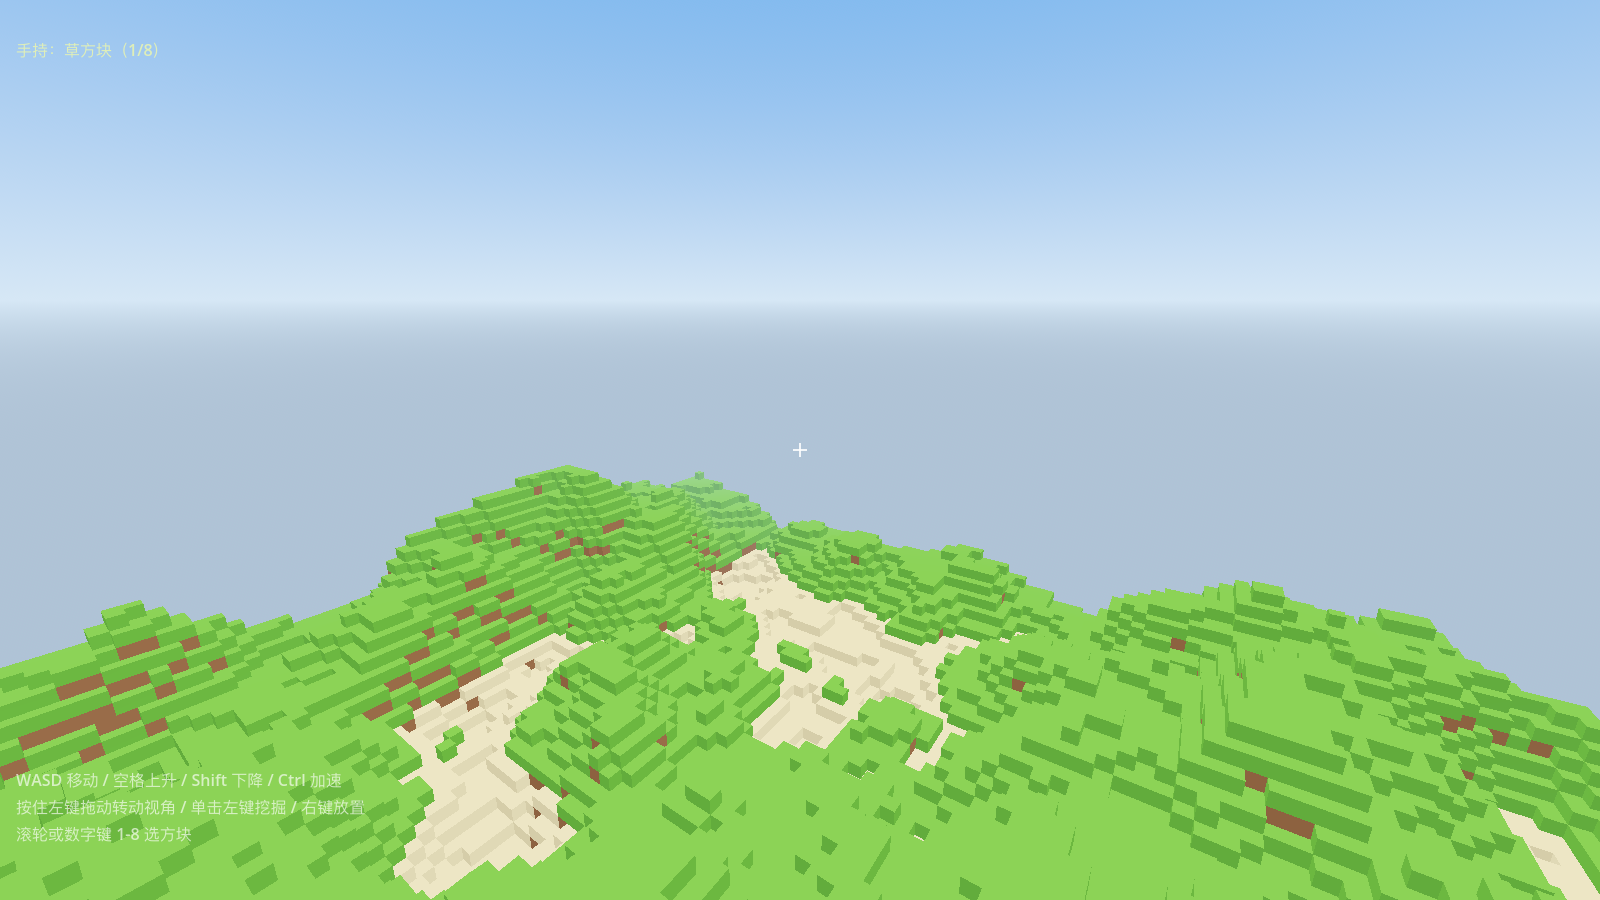
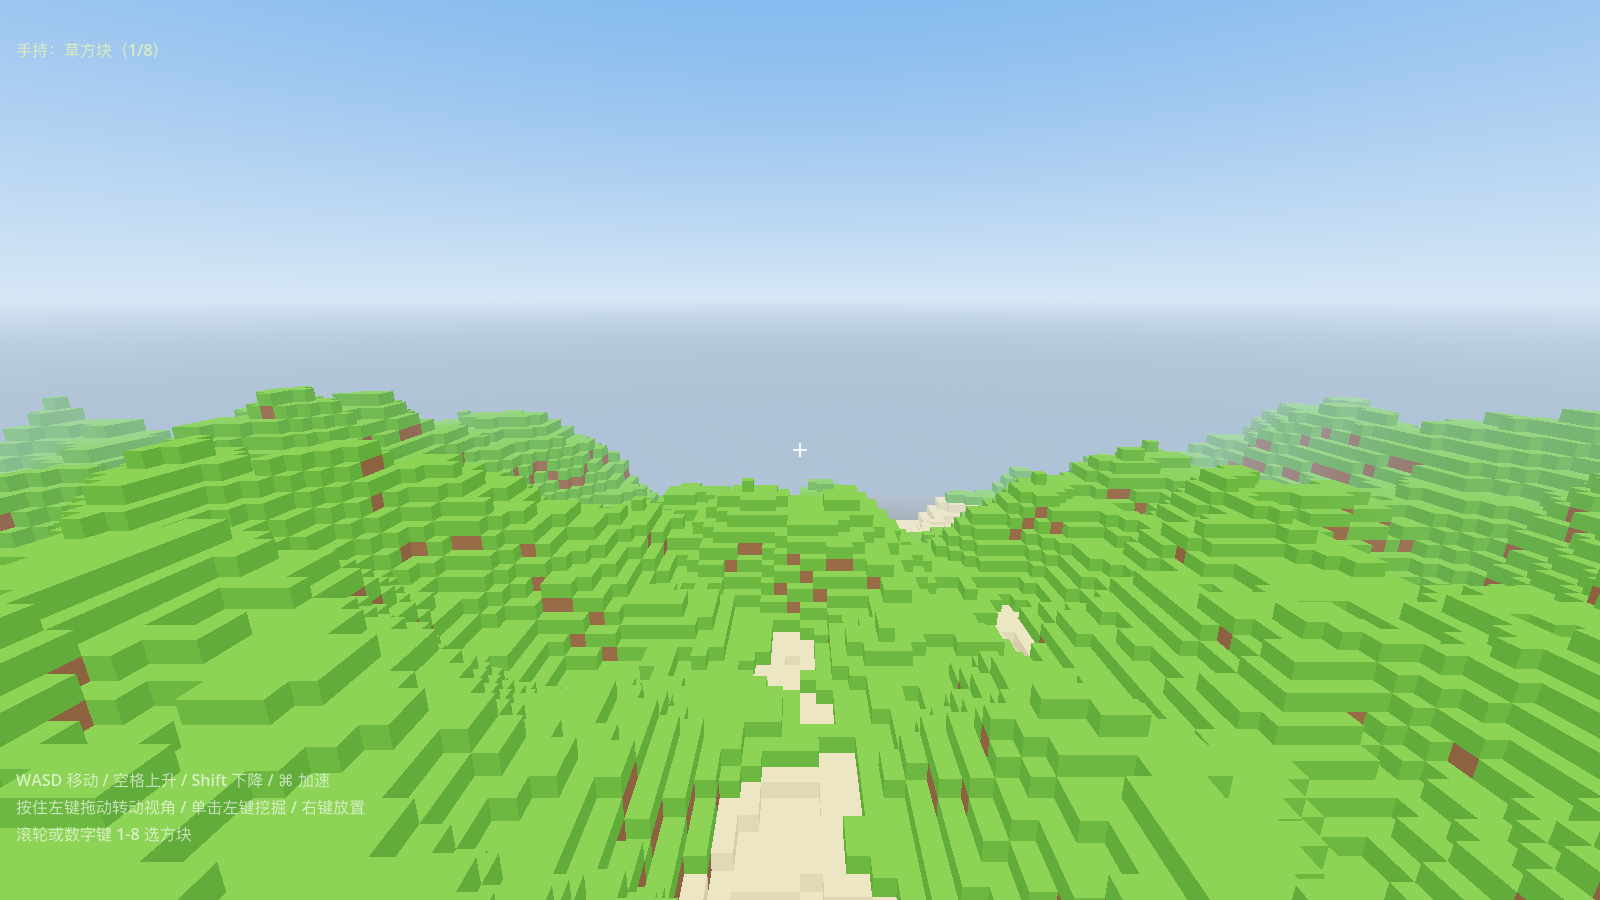
地图改为 256×256，加入 56 宽灰色中立区、蓝/红分界断面、中立区禁建；⌘ 加速

diff --git a/README.md b/README.md
@@ -4,7 +4,8 @@
 
 ## 现在能玩到的东西
 
-- 有限大小的方块世界（128×128，高度 64），程序生成地形、沙滩、矿脉
+- 256×256、高度 64 的有限世界：左右两方各 100 宽，中间 56 宽是灰色中立区（禁止建造/破坏），中立区两侧断面染成蓝/红分界线
+- 程序生成地形、沙滩、矿脉
 - 自由飞行视角，左键挖掘、右键放置、数字键选方块
 - 内置沙箱字节码 VM：玩家写的类 Python 代码可以在游戏里安全执行，不依赖外部解释器
 
@@ -18,7 +19,7 @@
 /Users/boyu/Desktop/Godot.app/Contents/MacOS/Godot --path .
 ```
 
-操作：WASD 移动 / 空格上升 / Shift 下降 / Ctrl 加速 / 滚轮调速 / 左键挖掘 / 右键放置 / 数字键 1-8 选方块 / Esc 释放鼠标。
+操作：WASD 移动 / 空格上升 / Shift 下降 / ⌘ 加速 / 按住左键拖动转视角 / 单击左键挖掘 / 右键放置 / 滚轮或数字键 1-8 选方块。
 
 ## 测试
 
